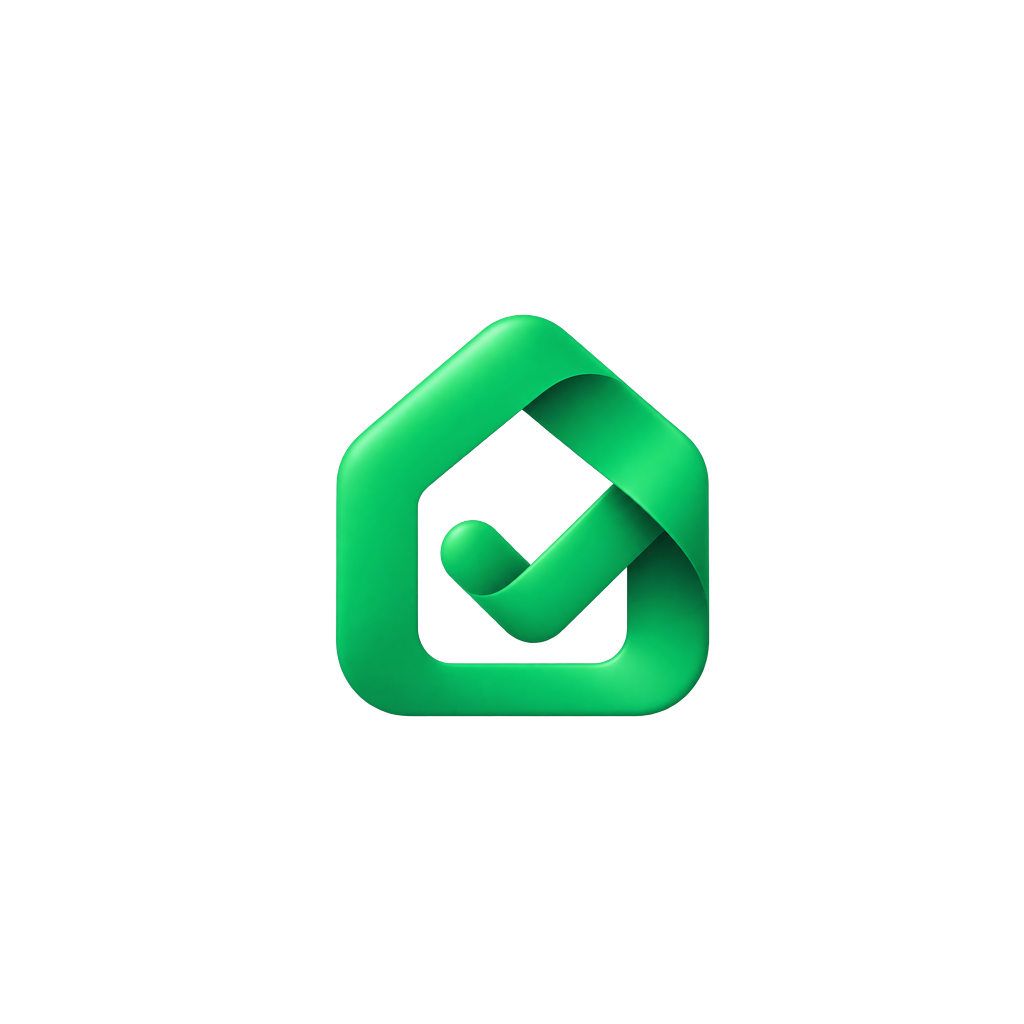
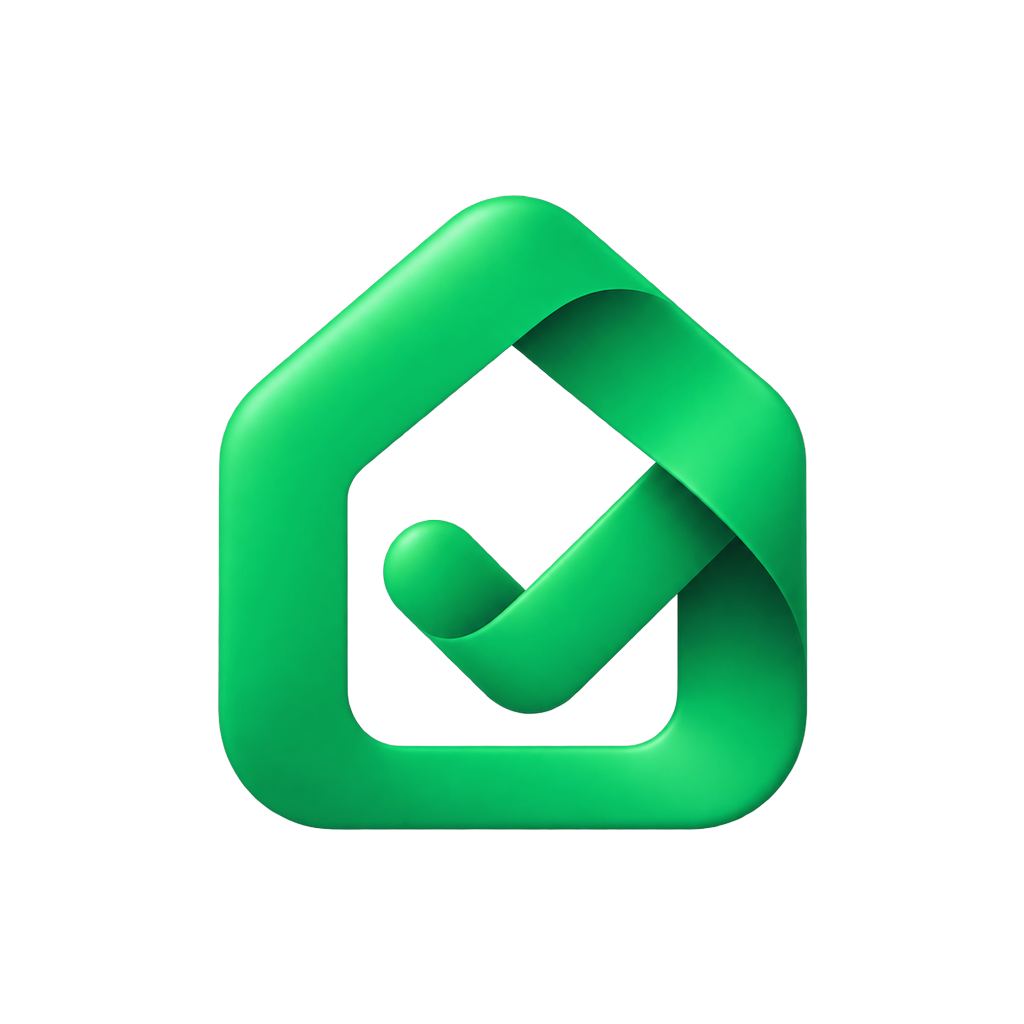
문구: 날짜 표기 통일 · 내 조건을 사람 말로 · 홈에 로고
한 화면에 날짜 형식이 셋 섞여 있었다 (2026년 9월 17일 / 9.29 ~ 10.1 / 2027-02-18).
표 안은 자릿수를 맞춘 2026.09.17로, 문장 안은 "2026년 9월 17일"로 나눴다.
공고문에서 오는 값은 "2027-02", "공가 발생 시 개별 안내"처럼 제각각이라 날짜일 때만 맞춘다.

조건 아래 한 줄도 값을 그대로 옮기고 있었다 — "입력: 혼인 0년"은 혼인을 안 했다는 뜻이고
"입력: 자녀 0명"은 자녀가 없다는 뜻이다. 읽는 사람이 해석하게 두지 않는다:
아직 혼인 전 / 자녀 없음 / 자동차 없음 / 무주택 5년째 / 서울 강남구 거주.

화면에 보이던 "트랙"은 공고 용어인 "공급 유형"으로 바꿨다.
홈 헤더의 집 글리프는 실제 로고로 교체했다.

Changed region(s): [[0.1875, 0.1875, 0.8125, 0.8125]]

diff --git a/apps/mobile/src/lib/conditions.ts b/apps/mobile/src/lib/conditions.ts
@@ -75,25 +75,56 @@ export function ruleTitle(r: EligibilityRule): string {
   }
 }
 
-/** 내 입력값 설명 */
+/**
+ * 내 조건을 사람이 쓰는 말로. 조건 문장 아래에 한 줄로 붙는다.
+ *
+ * "입력: 혼인 0년"처럼 값을 그대로 옮기지 않는다. 0년은 혼인을 안 했다는 뜻이고,
+ * 자녀 0명은 "자녀 없음"이다. 숫자를 그대로 보여 주면 읽는 사람이 해석을 해야 한다.
+ */
 export function inputSummary(r: EligibilityRule, p: UserProfile | null, result: RuleResult): string {
   if (!p) return "";
   if (result.status === "NEEDS_CHECK") return result.reason;
   switch (r.category) {
-    case "income": return `입력: ${won(p.monthly_income)}`;
-    case "asset": return `입력: ${manwon(p.total_assets)}`;
-    case "car_value": return `입력: ${manwon(p.car_value)}`;
-    case "debt": return `입력: 월 ${won(p.monthly_debt_payment)}`;
-    case "age": return p.birth_date ? `입력: ${p.birth_date.slice(0, 4)}년생 (만 ${ageFromBirthDate(p.birth_date)}세)` : `입력: 만 ${p.age}세`;
-    case "marriage": return r.unit === "status" ? `입력: ${MARRIAGE_LABEL[p.marriage ?? ""] ?? "-"}` : `입력: 혼인 ${p.marriage_years ?? 0}년`;
-    case "children": return r.unit === "child_age" ? `입력: 자녀 ${p.children_ages?.join(", ") ?? "-"}세` : `입력: 자녀 ${p.children_count ?? 0}명`;
-    case "housing": return p.is_homeless ? `입력: 무주택 ${yearsMonths(p.homeless_months)}` : "입력: 유주택";
-    case "residence": return `입력: ${p.region_sigungu ?? REGIONS.find((x) => x.value === p.region_code)?.label ?? p.region_code}`;
+    case "income":
+      return p.monthly_income ? `내 소득 월 ${manwon(p.monthly_income)}` : "소득 미입력";
+    case "asset":
+      return `내 자산 ${manwon(p.total_assets)}`;
+    case "car_value":
+      return !p.car_value ? "자동차 없음" : `내 자동차 ${manwon(p.car_value)}`;
+    case "debt":
+      return !p.monthly_debt_payment ? "부채 상환 없음" : `매달 갚는 돈 ${won(p.monthly_debt_payment)}`;
+    case "age":
+      return p.birth_date
+        ? `${p.birth_date.slice(0, 4)}년생 · 만 ${ageFromBirthDate(p.birth_date)}세`
+        : `만 ${p.age}세`;
+    case "marriage": {
+      const label = MARRIAGE_LABEL[p.marriage ?? ""] ?? "-";
+      if (r.unit === "status") return label;
+      // 혼인 기간 0년은 "아직 안 했다"는 뜻이다. 그대로 "0년"이라고 쓰지 않는다
+      if (p.marriage === "pre_marriage") return "아직 혼인 전";
+      if (!p.marriage_years) return p.marriage === "married" ? "혼인 1년 미만" : label;
+      return `혼인 ${p.marriage_years}년째`;
+    }
+    case "children": {
+      const count = p.children_count ?? 0;
+      if (count === 0) return "자녀 없음";
+      const ages = p.children_ages?.length ? ` · ${p.children_ages.map((a) => `만 ${a}세`).join(", ")}` : "";
+      return `자녀 ${count}명${r.unit === "child_age" ? ages : ""}`;
+    }
+    case "housing":
+      return p.is_homeless ? `무주택 ${yearsMonths(p.homeless_months)}째` : "집이 있어요";
+    case "residence":
+      return `${p.region_sigungu ?? REGIONS.find((x) => x.value === p.region_code)?.label ?? p.region_code} 거주`;
     case "subscription": {
       const elapsed = p.subscription_active && p.subscription_as_of ? monthsBetween(p.subscription_as_of) : 0;
-      return `입력: ${(p.subscription_months ?? 0) + elapsed}개월 · ${(p.subscription_deposits ?? 0) + elapsed}회${p.subscription_active ? " (납입 중, 매달 자동 반영)" : ""}`;
+      const months = (p.subscription_months ?? 0) + elapsed;
+      if (!months) return "청약통장 없음";
+      const deposits = (p.subscription_deposits ?? 0) + elapsed;
+      return `청약통장 ${months}개월 · ${deposits}회 납입${p.subscription_active ? " (매달 자동 반영)" : ""}`;
     }
-    case "commute": return `입력: ${p.commute_limit_min ?? "-"}분`;
-    case "status": return `입력: ${p.statuses?.length ? p.statuses.map((s) => STATUS_LABEL[s] ?? s).join(", ") : "해당 없음"}`;
+    case "commute":
+      return p.commute_limit_min ? `통근 ${p.commute_limit_min}분까지 괜찮아요` : "통근 시간 미입력";
+    case "status":
+      return p.statuses?.length ? p.statuses.map((s) => STATUS_LABEL[s] ?? s).join(", ") : "해당하는 자격 없음";
   }
 }

diff --git a/apps/mobile/app/announcement/[id]/cost.tsx b/apps/mobile/app/announcement/[id]/cost.tsx
@@ -10,7 +10,7 @@ import { ReportSheet } from "@/components/ReportSheet";
 import { draftReport, findReport, REPORT_STATUS_LABEL, type ReportTarget } from "@/lib/reports";
 import { getAnnouncement, useAnnouncements } from "@/data/announcements";
 import { LOANS } from "@/data/loans";
-import { manwon, pct, won } from "@/lib/format";
+import { manwon, pct, won, dateText } from "@/lib/format";
 import { canOpenCost, useAppState } from "@/store/appState";
 import { useTheme } from "@/theme/ThemeProvider";
 import { fonts, radius, space } from "@/theme/tokens";
@@ -119,7 +119,7 @@ export default function Cost() {
             <View style={{ gap: 14 }}>
               <KeyValue label="임대보증금" value={won(cost.deposit)} src={`공고문 ${base.source.page}쪽${deposit !== null ? " · 전환 적용" : ""}`} />
               {cost.loan ? (
-                <KeyValue label={`${cost.loan.product.name} (${Math.round(cost.loan.product.ltv * 100)}%)`} value={`− ${won(cost.loan.amount)}`} src={`${cost.loan.product.provider} · ${cost.loan.as_of_date} 기준 · 연 ${(cost.loan.annual_rate * 100).toFixed(1)}%`} />
+                <KeyValue label={`${cost.loan.product.name} (${Math.round(cost.loan.product.ltv * 100)}%)`} value={`− ${won(cost.loan.amount)}`} src={`${cost.loan.product.provider} · ${dateText(cost.loan.as_of_date)} 기준 · 연 ${(cost.loan.annual_rate * 100).toFixed(1)}%`} />
               ) : (
                 <KeyValue label="적용 가능한 대출" value="없음" src="입력 조건에 맞는 전세자금대출 상품이 없어요" />
               )}
@@ -152,7 +152,7 @@ export default function Cost() {
           <Sub tone="3" variant="caption">보증금·월임대료가 공고문과 다른가요?</Sub>
           {priceReport ? <Tag tone="info" icon="info">{REPORT_STATUS_LABEL[priceReport.status]}</Tag> : null}
         </Pressable>
-        <Sub tone="3" variant="caption" style={{ paddingHorizontal: 4 }}>공고문과 {cost.loan?.as_of_date ?? LOANS[0]!.as_of_date} 기준 대출 조건으로 계산한 예상값이에요. 실제 계약 조건과 다를 수 있어요.</Sub>
+        <Sub tone="3" variant="caption" style={{ paddingHorizontal: 4 }}>공고문과 {dateText(cost.loan?.as_of_date ?? LOANS[0]!.as_of_date)} 기준 대출 조건으로 계산한 예상값이에요. 실제 계약 조건과 다를 수 있어요.</Sub>
         <View style={{ height: 24 }} />
       </View>
 
@@ -225,7 +225,7 @@ export default function Cost() {
           })}
           {otherCount > 0 && !allTracks ? (
             <Pressable onPress={() => { setAllTracks(true); }} accessibilityRole="button" style={{ padding: 14, alignItems: "center" }}>
-              <T variant="bodyMedium" color={colors.text2}>다른 트랙 주택형 {otherCount}개 더 보기</T>
+              <T variant="bodyMedium" color={colors.text2}>다른 공급 유형 주택형 {otherCount}개 더 보기</T>
             </Pressable>
           ) : null}
         </ScrollView>

diff --git a/apps/mobile/app/announcement/[id]/index.tsx b/apps/mobile/app/announcement/[id]/index.tsx
@@ -8,7 +8,7 @@ import { SubscriptionSheet } from "@/components/SubscriptionSheet";
 import { BottomCTA, Card, ConditionRow, Header, IconButton, IconTile, KeyValue, Notice, Screen, SectionTitle, Sub, T, Tag } from "@/components/ui";
 import { getAnnouncement, isReadable, ruleCounts, useAnnouncements } from "@/data/announcements";
 import { inputSummary, ruleTitle } from "@/lib/conditions";
-import { daysUntil, dday, HOUSING_LABEL, longDate, shortDate } from "@/lib/format";
+import { dateRange, dateText, daysUntil, dday, HOUSING_LABEL, longDate, looseDate } from "@/lib/format";
 import { unseenChange } from "@/lib/changes";
 import { draftReport, findReport, REPORT_STATUS_LABEL, type ReportTarget } from "@/lib/reports";
 import { hasSource, openSource } from "@/lib/source";
@@ -143,7 +143,7 @@ export default function AnnouncementDetail() {
               })}
             </Card>
             {match && match.tracks.length > 1 ? (
-              <Sub tone="3" variant="caption" style={{ paddingHorizontal: 4 }}>다른 트랙 · {match.tracks.filter((t) => t !== track).map((t) => { const c = ruleCounts(t); return `${t.track.name} ${c.matched}/${c.total}`; }).join(" · ")}</Sub>
+              <Sub tone="3" variant="caption" style={{ paddingHorizontal: 4 }}>다른 공급 유형 · {match.tracks.filter((t) => t !== track).map((t) => { const c = ruleCounts(t); return `${t.track.name} ${c.matched}/${c.total}`; }).join(" · ")}</Sub>
             ) : null}
           </View>
         ) : null}
@@ -172,10 +172,11 @@ export default function AnnouncementDetail() {
         <View style={{ gap: 12 }}>
           <SectionTitle>일정</SectionTitle>
           <Card style={{ gap: 14 }}>
-            <KeyValue label="공고일" value={longDate(a.notice_date)} />
-            <KeyValue label="접수" value={`${shortDate(a.apply_start)} ~ ${shortDate(a.apply_end)}`} />
-            {a.extraction.schedule.winner_announce ? <KeyValue label="당첨자 발표" value={longDate(a.extraction.schedule.winner_announce)} /> : null}
-            {a.extraction.schedule.move_in ? <KeyValue label="입주 예정" value={a.extraction.schedule.move_in} /> : null}
+            {/* 표 안에서는 자릿수를 맞춘다. 문장 안(알림·고지)에서만 "2026년 9월 17일" 꼴을 쓴다 */}
+            <KeyValue label="공고일" value={dateText(a.notice_date)} />
+            <KeyValue label="접수" value={dateRange(a.apply_start, a.apply_end)} />
+            {a.extraction.schedule.winner_announce ? <KeyValue label="당첨자 발표" value={looseDate(a.extraction.schedule.winner_announce)} /> : null}
+            {a.extraction.schedule.move_in ? <KeyValue label="입주 예정" value={looseDate(a.extraction.schedule.move_in)} /> : null}
           </Card>
         </View>
 

diff --git a/apps/mobile/src/lib/format.ts b/apps/mobile/src/lib/format.ts
@@ -51,10 +51,50 @@ export function shortDate(iso: string | undefined): string {
   return `${Number(m)}.${Number(d)}`;
 }
 
+/** 문장 안에서 쓰는 날짜: "2026년 9월 30일" */
 export function longDate(iso: string | undefined): string {
   if (!iso) return "-";
   const [y, m, d] = iso.split("-");
   return `${y}년 ${Number(m)}월 ${Number(d)}일`;
+}
+
+const pad = (v: string) => v.padStart(2, "0");
+
+/**
+ * 표에서 쓰는 날짜: "2026.09.30".
+ * 표 안에서는 자릿수가 맞아야 눈이 세로로 읽는다 (문장 안이면 longDate).
+ */
+export function dateText(iso: string | undefined): string {
+  if (!iso) return "-";
+  const [y, m, d] = iso.split("-");
+  if (!y || !m) return iso;
+  return d ? `${y}.${pad(m)}.${pad(d)}` : `${y}.${pad(m)}`;
+}
+
+/** 기간: "2026.09.29 ~ 10.01". 같은 해면 뒤쪽 연도를 생략한다 */
+export function dateRange(from: string | undefined, to: string | undefined): string {
+  if (!from && !to) return "-";
+  if (!from) return `~ ${dateText(to)}`;
+  if (!to) return `${dateText(from)} ~`;
+  const [fy, fm] = from.split("-");
+  const [ty, tm, td] = to.split("-");
+  if (fy !== ty) return `${dateText(from)} ~ ${dateText(to)}`;
+  if (fm === tm) return `${dateText(from)} ~ ${pad(td ?? "")}`;
+  return `${dateText(from)} ~ ${pad(tm ?? "")}.${pad(td ?? "")}`;
+}
+
+/**
+ * 공고문에서 온 날짜는 형태가 제각각이다 — "2027-02-18", "2027-02",
+ * 그리고 "공가 발생 시 개별 안내" 같은 문장도 온다. 날짜면 맞추고, 아니면 그대로 둔다.
+ */
+export function looseDate(value: string | undefined): string {
+  if (!value) return "-";
+  if (/^\d{4}-\d{2}-\d{2}$/.test(value)) return dateText(value);
+  if (/^\d{4}-\d{2}$/.test(value)) {
+    const [y, m] = value.split("-");
+    return `${y}년 ${Number(m)}월`;
+  }
+  return value;
 }
 
 export const HOUSING_LABEL: Record<string, string> = {

diff --git a/apps/mobile/src/components/ui.tsx b/apps/mobile/src/components/ui.tsx
@@ -5,7 +5,7 @@
  * 원칙: 흰 화면 + grey50 카드, 헤어라인 대신 간격, 아이콘은 연한 타일 안에, 색은 CTA·상태에만.
  */
 import { useEffect, useRef, useState, type PropsWithChildren, type ReactNode } from "react";
-import { Animated, Easing, Keyboard, LayoutAnimation, Modal, Platform, Pressable, ScrollView, Text, UIManager, View, type LayoutChangeEvent, type StyleProp, type TextStyle, type ViewStyle } from "react-native";
+import { Animated, Easing, Image, Keyboard, LayoutAnimation, Modal, Platform, Pressable, ScrollView, Text, UIManager, View, type LayoutChangeEvent, type StyleProp, type TextStyle, type ViewStyle } from "react-native";
 import { SafeAreaView } from "react-native-safe-area-context";
 import { useTheme } from "@/theme/ThemeProvider";
 import { fonts, radius, space, type } from "@/theme/tokens";
@@ -235,6 +235,11 @@ export function Tag({ children, tone = "primary", icon }: PropsWithChildren<{ to
       <Text {...wordWrap} style={[{ fontFamily: fonts.bold, fontSize: 12, color: fg, lineHeight: 16, letterSpacing: -0.1 }]}>{children}</Text>
     </View>
   );
+}
+
+/** 앱 마크. 아이콘 글리프 대신 실제 로고를 쓰는 자리 (홈 헤더 등) */
+export function Logo({ size = 56 }: { size?: number }) {
+  return <Image source={require("../../assets/logo.png")} style={{ width: size, height: size }} resizeMode="contain" accessibilityLabel="공공주택 비서" />;
 }
 
 /** 필터 칩: grey100 면, 선택은 검정 면 */

diff --git a/apps/mobile/app/(tabs)/index.tsx b/apps/mobile/app/(tabs)/index.tsx
@@ -2,7 +2,7 @@ import { useMemo, useState } from "react";
 import { useRouter } from "expo-router";
 import { Pressable, View } from "react-native";
 import { Icon } from "@/components/Icon";
-import { animateLayout, BigNumber, Card, Chip, FadeIn, IconTile, Screen, SectionTitle, Sub, T, Tag } from "@/components/ui";
+import { animateLayout, BigNumber, Card, Chip, FadeIn, IconTile, Logo, Screen, SectionTitle, Sub, T, Tag } from "@/components/ui";
 import { getAnnouncement, matchAll, matching, useAnnouncements, type Matched, isReadable } from "@/data/announcements";
 import { daysUntil, dday, HOUSING_LABEL } from "@/lib/format";
 import { REGIONS } from "@/lib/onboarding";
@@ -58,7 +58,7 @@ export default function Home() {
           <BigNumber value={String(matched.length)} unit="개" size={44} />
           <Sub tone="3">{today.getMonth() + 1}월 {today.getDate()}일 기준 · 전체 공고 {feed.list.length}개</Sub>
         </View>
-        <IconTile name="house" tone="primary" size={56} />
+        <Logo size={56} />
       </FadeIn>
       <View style={{ flexDirection: "row", gap: 8, flexWrap: "wrap" }}>
         <Chip on={myRegionOnly} onPress={toggle(setMyRegionOnly)}>{regionLabel}만</Chip>

diff --git a/apps/mobile/test/format.test.ts b/apps/mobile/test/format.test.ts
@@ -1,0 +1,26 @@
+import { describe, expect, it } from "vitest";
+import { dateRange, dateText, longDate, looseDate } from "../src/lib/format";
+
+describe("날짜 표기", () => {
+  it("표에서는 자릿수를 맞춘다", () => {
+    expect(dateText("2026-09-17")).toBe("2026.09.17");
+    expect(dateText("2026-10-01")).toBe("2026.10.01");
+  });
+
+  it("문장 안에서는 한국어로", () => {
+    expect(longDate("2026-09-17")).toBe("2026년 9월 17일");
+  });
+
+  it("같은 해·같은 달이면 뒤쪽을 줄인다", () => {
+    expect(dateRange("2026-09-29", "2026-09-30")).toBe("2026.09.29 ~ 30");
+    expect(dateRange("2026-09-29", "2026-10-01")).toBe("2026.09.29 ~ 10.01");
+    expect(dateRange("2026-12-29", "2027-01-05")).toBe("2026.12.29 ~ 2027.01.05");
+  });
+
+  it("공고문에서 온 값은 형태가 제각각이라 날짜일 때만 맞춘다", () => {
+    expect(looseDate("2027-02-18")).toBe("2027.02.18");
+    expect(looseDate("2027-02")).toBe("2027년 2월");
+    expect(looseDate("공가 발생 시 개별 안내")).toBe("공가 발생 시 개별 안내");
+    expect(looseDate(undefined)).toBe("-");
+  });
+});
